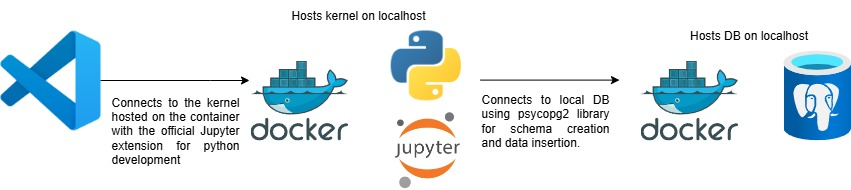
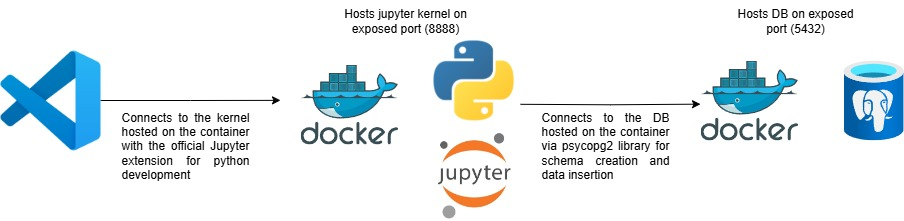
Fixed development diagram and added README.md content.

Changed region(s): [[0.0, 0.0263, 0.886, 1.0], [0.9166, 0.2632, 1.0, 0.7368], [0.7944, 0.0263, 0.9471, 0.2105]]

diff --git a/README.md b/README.md
@@ -1,2 +1,68 @@
-# bike-rental-starter-kit
-Codecademy Data Engineer career path portfolio project
+## 🧑💻 Codecademy Data Engineering Project 
+
+---
+### 📖 General overview
+This repository contains a project created as part of the **Codecademy Data Engineering Career Path**.  
+It is intended for **educational purposes only** and demonstrates concepts learned during the course.
+
+---
+
+### 📝 Purpose
+The goal of this project is to **practice and apply data engineering skills**, including:
+
+- Data extraction, transformation, and loading (**ETL**)
+- Working with **databases and SQL**
+- Data analysis and processing using **Python**
+- Building **data pipelines**
+- Environment **containerization**
+
+---
+
+### ⚠ Disclaimer
+This project is **not intended for production use**.  
+All datasets and examples are for **learning and practice purposes only**.
+
+---
+
+### 🛠 Technologies used, architecture and development workflow
+- Docker
+- Python
+- PostgreSQL  
+- VS Code
+- Jupyter Notebook  
+
+![Architecture diagram](images/data_pipeline_placeholder.png)
+
+> **Note:** Replace `data_pipeline_placeholder.png` with your actual diagram file in the `images` folder.
+
+
+The project was developed on a local **VS Code** installation that used **docker containers** to host the **jupyter kernel** for python and a **PostgreSQL** database.
+
+![Development workflow](images/data_pipeline_placeholder.png)
+
+> **Note:** Replace `data_pipeline_placeholder.png` with your actual diagram file in the `images` folder.
+
+---
+
+### 📂 Installation
+1. Clone the repository:
+   ```bash
+   git clone https://github.com/yourusername/your-repo.git
+   cd your-repo
+   ```
+
+### 🪧 Usage
+
+
+1. Run Jupyter notebooks: Open the notebooks provided in the repository to explore datasets, analyze data, and run queries.
+
+2. Connect to PostgreSQL database: Use your preferred client (DBeaver, pgAdmin, or Python scripts) to connect to the database and interact with the tables.
+
+3. Experiment with ETL scripts: Modify or run the ETL pipelines included to practice transforming and loading data.
+
+
+### 👤 Author
+
+[Your Name]
+
+Educational project for Codecademy Data Engineering Career Path
